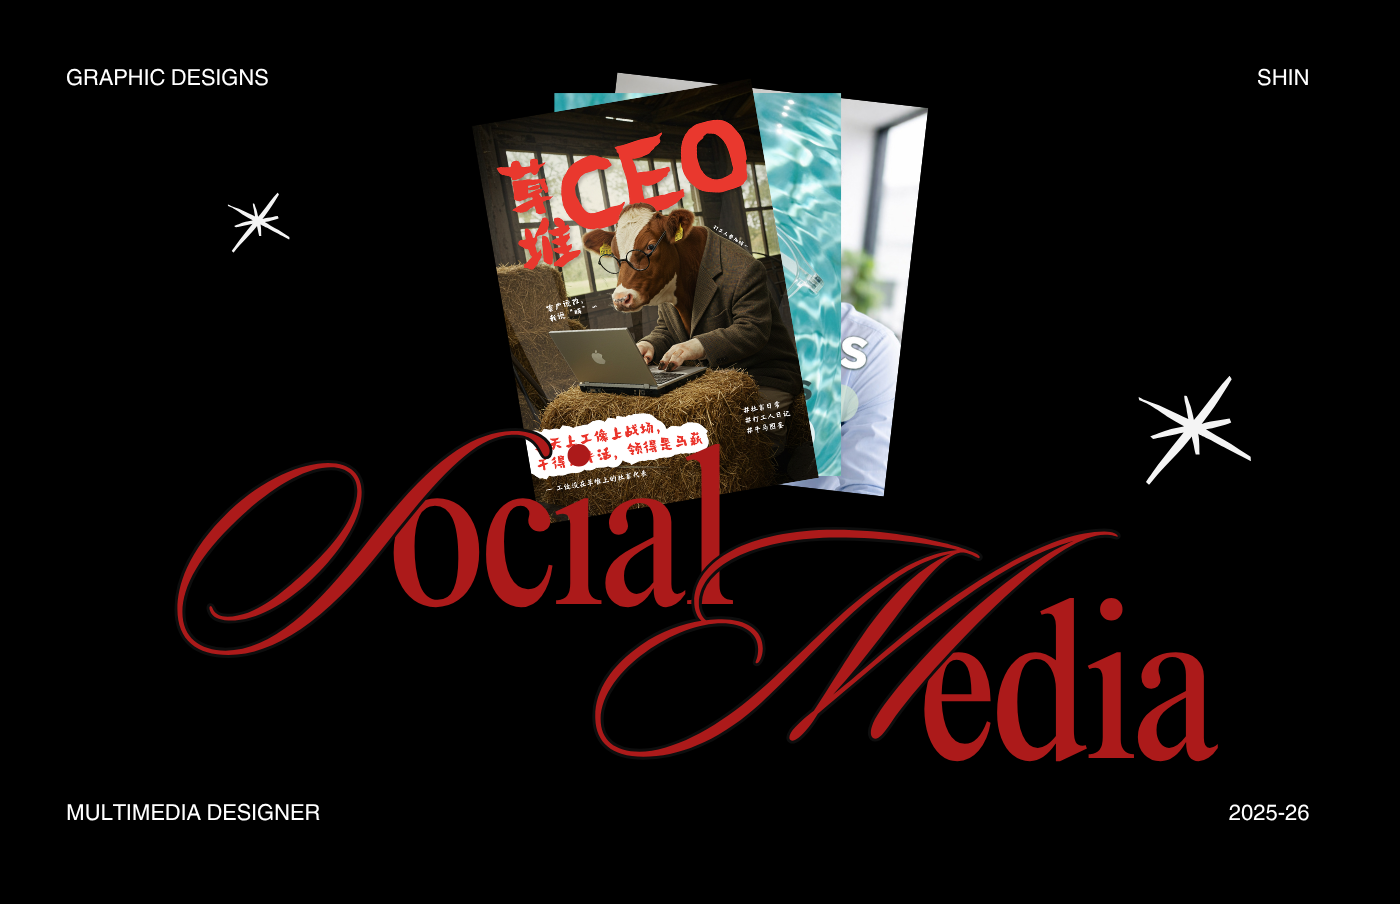
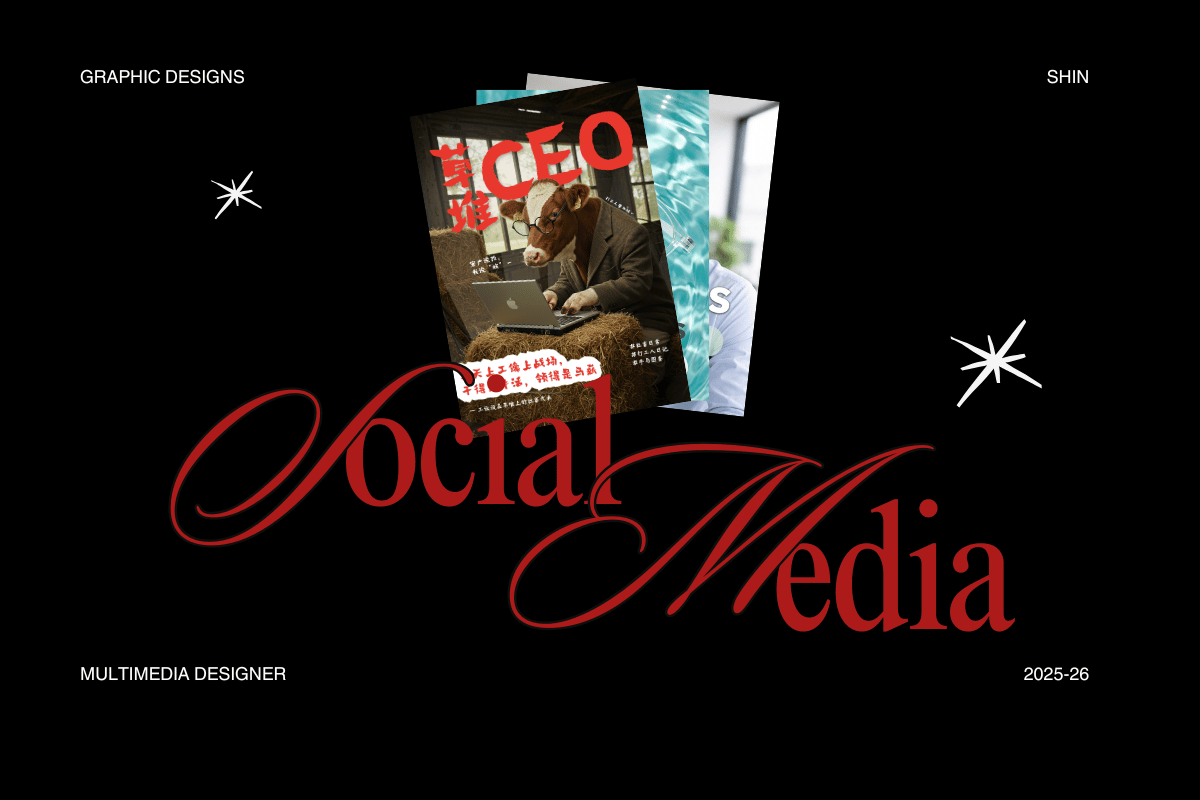
Replace social media cover and refine card size

diff --git a/style.css b/style.css
@@ -1,1 +1,2 @@
-:root{--ink:#101314;--cyan:#00d9e8;--cyan-dark:#00a7b5;--paper:#f5f6f2;--line:rgba(16,19,20,.18);--serif:'Playfair Display',Georgia,serif;--sans:'DM Sans',Arial,sans-serif;--mono:'DM Mono',monospace}*{box-sizing:border-box}html{scroll-behavior:smooth}body{margin:0;color:var(--ink);background:var(--paper);font-family:var(--sans);overflow-x:hidden}a{color:inherit;text-decoration:none}.site-header{height:82px;display:flex;align-items:center;justify-content:space-between;padding:0 4vw;border-bottom:1px solid var(--line);font-size:12px;letter-spacing:.08em;text-transform:uppercase}.wordmark{font-size:20px;font-weight:700;letter-spacing:-.08em}.wordmark span{color:var(--cyan-dark);padding-left:3px}.site-header nav{display:flex;gap:30px}.site-header nav a{position:relative}.site-header nav a:after{content:'';position:absolute;left:0;bottom:-7px;width:0;height:1px;background:var(--cyan-dark);transition:.3s}.site-header nav a:hover:after{width:100%}.availability{font-family:var(--mono);font-size:10px;letter-spacing:0;text-transform:none}.availability i{display:inline-block;width:7px;height:7px;border-radius:50%;background:var(--cyan-dark);margin-right:8px;box-shadow:0 0 0 4px rgba(0,217,232,.16)}.section-pad{padding:8vw 7vw}.hero{min-height:calc(100vh - 82px);position:relative;display:flex;flex-direction:column;justify-content:space-between}.eyebrow{font-family:var(--mono);font-size:11px;letter-spacing:.04em;text-transform:uppercase;margin:0}.hero h1{font-size:clamp(4.2rem,11vw,10.2rem);line-height:.86;letter-spacing:-.085em;font-weight:500;margin:5vw 0 4vw;max-width:950px}.hero h1 em,.section-heading h2 em,.about-copy h2 em,.contact h2 em{font-family:var(--serif);font-weight:500;letter-spacing:-.08em}.hero h1 span{color:var(--cyan-dark)}.hero-bottom{display:flex;justify-content:space-between;align-items:end;max-width:690px}.intro{max-width:420px;font-size:16px;line-height:1.45;margin:0}.intro strong{font-weight:500}.round-link{border:1px solid var(--ink);border-radius:100%;width:114px;height:114px;display:flex;flex-direction:column;justify-content:center;align-items:center;font-size:28px;line-height:.8;transition:.3s}.round-link span{font-family:var(--mono);font-size:9px;line-height:1.25;text-transform:uppercase;margin-top:10px;text-align:center}.round-link:hover{background:var(--cyan);border-color:var(--cyan);transform:rotate(8deg)}.hero-mark{position:absolute;right:8vw;top:35%;display:flex;flex-direction:column;align-items:center;gap:8px;color:var(--cyan-dark);font-family:var(--mono);font-size:10px;transform:rotate(90deg)}.hero-mark b{font-size:34px;transform:rotate(-90deg);font-weight:400}.marquee{overflow:hidden;background:var(--cyan);white-space:nowrap;border-block:1px solid var(--ink);font-family:var(--mono);font-size:12px;padding:12px 0}.marquee div{display:inline-block;animation:marquee 24s linear infinite}.marquee b{font-size:16px;margin:0 24px}@keyframes marquee{to{transform:translateX(-50%)}}.section-heading{display:grid;grid-template-columns:1fr 2fr 1fr;align-items:start;margin-bottom:6vw}.section-heading h2,.about-copy h2,.contact h2{font-size:clamp(3rem,7vw,7rem);line-height:.87;letter-spacing:-.08em;font-weight:500;margin:0}.heading-note{font-family:var(--mono);font-size:11px;line-height:1.5;max-width:200px;margin:8px 0 0}.project-grid{display:grid;grid-template-columns:1.05fr .95fr;gap:5vw 3vw}.project-large{grid-row:span 2}.project-wide{grid-column:1/-1}.project-art{position:relative;overflow:hidden;min-height:390px;display:flex;align-items:flex-end;padding:22px;color:var(--ink)}.project-large .project-art{min-height:660px}.project-art>span{position:absolute;top:22px;left:22px;font-family:var(--mono);font-size:11px}.project-art p{font-family:var(--mono);font-size:10px;text-transform:uppercase;margin:0}.art-one{background:#d4f8f7}.art-two{background:#202525;color:#f5f6f2}.art-three{background:#e6d8cb}.art-four{background:var(--cyan)}.orb{width:42vw;height:42vw;max-width:500px;max-height:500px;border-radius:50%;background:var(--cyan);position:absolute;left:11%;top:12%;mix-blend-mode:multiply}.orb:after{content:'RE';position:absolute;font-size:20vw;font-weight:700;letter-spacing:-.13em;left:18%;top:23%;color:rgba(16,19,20,.82)}.grid-shape{width:65%;height:72%;position:absolute;left:18%;top:14%;background:repeating-linear-gradient(90deg,transparent 0 32px,rgba(0,217,232,.7) 33px 35px),repeating-linear-gradient(0deg,transparent 0 32px,rgba(0,217,232,.7) 33px 35px);transform:rotate(-12deg)}.grid-shape:after{content:'MORROW';position:absolute;font-size:clamp(36px,6vw,80px);font-weight:700;letter-spacing:-.12em;left:-12%;top:38%;color:var(--cyan);transform:rotate(12deg)}.type-stack{position:absolute;top:12%;left:9%;font-size:clamp(46px,8vw,110px);line-height:.82;letter-spacing:-.11em;font-weight:700}.type-stack i{font-family:var(--serif);font-weight:500}.rings{width:70%;aspect-ratio:1;position:absolute;top:10%;left:15%;border:1px solid var(--ink);border-radius:50%;box-shadow:0 0 0 35px var(--cyan),0 0 0 36px var(--ink),0 0 0 70px var(--cyan),0 0 0 71px var(--ink);}.project-meta{display:flex;align-items:baseline;gap:18px;padding-top:16px}.project-meta h3{font-size:22px;letter-spacing:-.04em;margin:0;font-weight:500}.project-meta p{font-family:var(--mono);font-size:10px;margin:0;color:#51595a}.project-meta b{margin-left:auto;font-size:20px;font-weight:400;transition:.2s}.project:hover .project-meta b{transform:translate(4px,-4px)}.project,.about-copy,.contact h2{opacity:0;transform:translateY(18px);transition:opacity .7s ease,transform .7s ease}.project.is-visible,.about-copy.is-visible,.contact h2.is-visible{opacity:1;transform:none}.about{display:grid;grid-template-columns:1fr 2fr;gap:5vw;border-top:1px solid var(--line)}.about-label{display:flex;justify-content:space-between;align-items:start}.about-stamp{border:1px solid var(--ink);border-radius:50%;width:80px;height:80px;display:grid;place-content:center;text-align:center;font-family:var(--mono);font-size:9px;line-height:1.1;transform:rotate(12deg)}.about-copy h2{margin-bottom:4vw}.big-copy{font-size:clamp(1.5rem,3vw,3rem);line-height:1.12;letter-spacing:-.05em;max-width:750px;margin:0 0 3vw}.about-copy>p:not(.big-copy){font-size:15px;line-height:1.5;max-width:430px}.skills{display:flex;flex-wrap:wrap;gap:8px;margin-top:4vw;max-width:550px}.skills span{border:1px solid var(--line);border-radius:100px;padding:10px 15px;font-family:var(--mono);font-size:10px}.contact{background:var(--ink);color:var(--paper);min-height:75vh;display:flex;flex-direction:column}.contact h2{font-size:clamp(4rem,11vw,11rem);margin:12vw 0 7vw}.email{font-family:var(--mono);font-size:clamp(1rem,2vw,1.6rem);border-bottom:1px solid rgba(245,246,242,.45);padding-bottom:12px;max-width:620px;transition:.3s}.email span{float:right;color:var(--cyan);font-size:28px}.email:hover{color:var(--cyan)}.contact-footer{display:flex;justify-content:space-between;margin-top:auto;font-family:var(--mono);font-size:10px;color:#9da5a5}.contact-footer div{display:flex;gap:24px}.contact-footer a:hover{color:var(--cyan)}footer{display:flex;justify-content:space-between;padding:22px 7vw;font-family:var(--mono);font-size:10px;border-top:1px solid var(--line)}footer i{color:var(--cyan-dark);font-size:14px}.cursor-glow{position:fixed;z-index:10;width:230px;height:230px;border-radius:50%;pointer-events:none;background:radial-gradient(circle,rgba(0,217,232,.16),transparent 68%);transform:translate(-50%,-50%);mix-blend-mode:multiply}@media(max-width:700px){.site-header{padding:0 5vw}.site-header nav{gap:16px}.availability{display:none}.section-pad{padding:16vw 6vw}.hero{min-height:calc(100vh - 60px)}.hero h1{margin:18vw 0 12vw}.hero-bottom{align-items:start;gap:20px}.intro{font-size:14px}.round-link{width:84px;height:84px;flex-shrink:0}.round-link span{font-size:8px}.hero-mark{right:3vw;top:43%}.section-heading{display:block;margin-bottom:15vw}.heading-note{margin-top:8vw}.project-grid{display:block}.project{display:block;margin-bottom:13vw}.project-art,.project-large .project-art{min-height:78vw}.project-meta{gap:10px;flex-wrap:wrap}.project-meta h3{font-size:19px}.project-meta p{width:100%;order:3}.about{display:block}.about-label{margin-bottom:16vw}.contact{min-height:80vh}.contact h2{margin:25vw 0 20vw}.contact-footer{display:block;line-height:2.2}.contact-footer div{margin-top:12px}footer{padding:18px 6vw;gap:15px;flex-wrap:wrap}.cursor-glow{display:none}}
+.project-art > img{position:absolute;inset:0;width:100%;height:100%;object-fit:cover;object-position:center;transition:transform .6s ease;z-index:0}.project:hover .project-art > img{transform:scale(1.035)}.project-art > img + p,.project-art > img ~ span{z-index:1;color:#fff;text-shadow:0 1px 8px rgba(0,0,0,.55)}
+.project-grid>.project:not(.project-large):not(.project-wide) .project-art{min-height:0;aspect-ratio:4/3}
